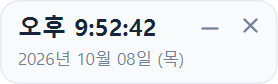
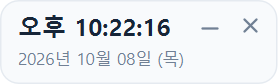
Stabilize settings panel and dropdown rendering for macOS in 1.2.2

Changed region(s): [[0.4317, 0.2143, 0.6331, 0.4286], [0.259, 0.2143, 0.4029, 0.4286]]

diff --git a/settings_panel.py b/settings_panel.py
@@ -1,12 +1,20 @@
 """Stable Qt preferences panel: no widget recreation during changes."""
 from datetime import datetime
 from PySide6.QtCore import Qt, QSignalBlocker, QPointF
-from PySide6.QtGui import QFont, QKeySequence, QShortcut, QPainter, QPen, QColor, QPolygonF, QPalette
+from PySide6.QtGui import QFont, QKeySequence, QShortcut, QPainter, QPen, QColor, QPolygonF, QPalette, QFontMetrics
 from PySide6.QtWidgets import (QWidget, QLabel, QVBoxLayout, QHBoxLayout, QComboBox,
-                               QPushButton, QButtonGroup, QFrame, QListView, QKeySequenceEdit, QScrollArea)
+                               QPushButton, QButtonGroup, QFrame, QListView, QKeySequenceEdit, QScrollArea, QSizePolicy, QProxyStyle, QStyle)
 from clock_core import TIME_PRESETS, DATE_PRESETS, format_clock
 from hotkey_core import parse_shortcut
 from ui_components import RoundedWindow, button
+
+
+class PersistentScrollStyle(QProxyStyle):
+    """Avoid macOS overlay/auto-hide scrollbar transitions in settings."""
+    def styleHint(self, hint, option=None, widget=None, returnData=None):
+        if hint == QStyle.SH_ScrollBar_Transient:
+            return 0
+        return super().styleHint(hint, option, widget, returnData)
 
 
 class ClockComboBox(QComboBox):
@@ -14,12 +22,20 @@ class ClockComboBox(QComboBox):
         super().__init__(parent)
         self.arrow_color = "#718094"
 
-    def showPopup(self):
-        super().showPopup()
+    def prepare_popup(self):
+        # Prepare the native container before its first visible frame.
         container = self.view().window()
-        container.setPalette(self.palette())
+        palette = self.palette()
+        if container.palette() != palette:
+            container.setPalette(palette)
         container.setAutoFillBackground(True)
-        container.setStyleSheet(f"background: {self.palette().color(QPalette.Base).name()};")
+        sheet = f"background: {palette.color(QPalette.Base).name()};"
+        if container.styleSheet() != sheet:
+            container.setStyleSheet(sheet)
+
+    def showPopup(self):
+        self.prepare_popup()
+        super().showPopup()
 
     def paintEvent(self, event):
         super().paintEvent(event)
@@ -56,6 +72,7 @@ class SettingsPanel(RoundedWindow):
         self.setAttribute(Qt.WA_DeleteOnClose)
         self.controls = {}
         self.groups = []
+        self.applied_theme = None
         outer = QVBoxLayout(self)
         outer.setContentsMargins(0, 0, 0, 0)
         self.scroll = QScrollArea(self)
@@ -63,6 +80,10 @@ class SettingsPanel(RoundedWindow):
         self.scroll.setFrameShape(QFrame.NoFrame)
         self.scroll.setWidgetResizable(True)
         self.scroll.setHorizontalScrollBarPolicy(Qt.ScrollBarAlwaysOff)
+        scrollbar = self.scroll.verticalScrollBar()
+        self.scroll_style = PersistentScrollStyle('Fusion')
+        self.scroll_style.setParent(scrollbar)
+        scrollbar.setStyle(self.scroll_style)
         self.body = QWidget()
         self.body.setObjectName('settingsBody')
         self.scroll.setWidget(self.body)
@@ -91,6 +112,10 @@ class SettingsPanel(RoundedWindow):
         self.preview_time.setFont(QFont("Malgun Gothic", 18, QFont.Bold))
         self.preview_date = QLabel()
         self.preview_date.setFont(QFont("Malgun Gothic", 10))
+        # Time digit widths must not invalidate the scroll area's size hints.
+        for label in (self.preview_time, self.preview_date):
+            label.setSizePolicy(QSizePolicy.Ignored, QSizePolicy.Fixed)
+            label.setFixedHeight(QFontMetrics(label.font()).height())
         preview_layout.addWidget(self.preview_time)
         preview_layout.addWidget(self.preview_date)
         layout.addWidget(self.preview)
@@ -139,8 +164,11 @@ class SettingsPanel(RoundedWindow):
         self.refresh()
         bounds = app.root.screen().availableGeometry()
         self.body.adjustSize()
-        self.setFixedSize(max(450, self.body.sizeHint().width() + 16),
-                          min(self.body.sizeHint().height(), bounds.height() - 16))
+        content_height = self.body.sizeHint().height()
+        panel_height = min(content_height, bounds.height() - 16)
+        self.scroll.setVerticalScrollBarPolicy(
+            Qt.ScrollBarAlwaysOn if content_height > panel_height else Qt.ScrollBarAlwaysOff)
+        self.setFixedSize(max(450, self.body.sizeHint().width() + 16), panel_height)
         x = max(bounds.left(), min(app.root.x() - self.width() - 12, bounds.right() - self.width()))
         y = max(bounds.top(), min(app.root.y(), bounds.bottom() - self.height()))
         self.move(x, y)
@@ -212,6 +240,14 @@ class SettingsPanel(RoundedWindow):
 
     def refresh(self):
         colors = self.app.colors
+        theme_changed = self.applied_theme != self.app.preferences.theme
+        if theme_changed:
+            self.apply_theme(colors)
+            self.applied_theme = self.app.preferences.theme
+        self.sync_controls(theme_changed)
+        self.update_preview(datetime.now().astimezone())
+
+    def apply_theme(self, colors):
         self.apply_colors(colors)
         self.setStyleSheet(self.styleSheet() + f"""
             QScrollArea#settingsScroll, QWidget#settingsBody {{ background: transparent; }}
@@ -240,6 +276,9 @@ class SettingsPanel(RoundedWindow):
         for label in self.labels + [self.description, self.preview_date, self.hint, self.chime_hint, self.hotkey_hint, self.hotkey_status]:
             label.setStyleSheet(f"color: {colors['muted']};")
         self.status_label.setStyleSheet(f"color: {colors['accent']};")
+
+    def sync_controls(self, theme_changed):
+        colors = self.app.colors
         for name, controls in self.controls.items():
             value = getattr(self.app.preferences, name)
             if isinstance(controls, list):
@@ -248,18 +287,20 @@ class SettingsPanel(RoundedWindow):
                     control.setChecked(control.property("value") == value)
                     del blocker
             else:
-                palette = controls.palette()
-                for role, color in ((QPalette.Window, colors['panel']), (QPalette.Base, colors['panel']),
-                                    (QPalette.Button, colors['panel']), (QPalette.Text, colors['fg']),
-                                    (QPalette.WindowText, colors['fg']), (QPalette.ButtonText, colors['fg']),
-                                    (QPalette.Highlight, colors['selected']), (QPalette.HighlightedText, colors['fg'])):
-                    palette.setColor(role, QColor(color))
-                controls.setPalette(palette)
-                controls.view().setPalette(palette)
-                controls.view().viewport().setPalette(palette)
-                controls.view().viewport().setAutoFillBackground(True)
-                controls.arrow_color = colors["muted"]
-                controls.update()
+                if theme_changed:
+                    palette = controls.palette()
+                    for role, color in ((QPalette.Window, colors['panel']), (QPalette.Base, colors['panel']),
+                                        (QPalette.Button, colors['panel']), (QPalette.Text, colors['fg']),
+                                        (QPalette.WindowText, colors['fg']), (QPalette.ButtonText, colors['fg']),
+                                        (QPalette.Highlight, colors['selected']), (QPalette.HighlightedText, colors['fg'])):
+                        palette.setColor(role, QColor(color))
+                    controls.setPalette(palette)
+                    controls.view().setPalette(palette)
+                    controls.view().viewport().setPalette(palette)
+                    controls.view().viewport().setAutoFillBackground(True)
+                    controls.arrow_color = colors["muted"]
+                    controls.update()
+                    controls.prepare_popup()
                 blocker = QSignalBlocker(controls)
                 controls.setCurrentIndex(controls.findData(value))
                 del blocker
@@ -267,12 +308,13 @@ class SettingsPanel(RoundedWindow):
         if not self.shortcut_editor.hasFocus():
             self.shortcut_editor.setKeySequence(QKeySequence(self.app.preferences.recovery_shortcut))
         self.update_hotkey_status()
-        self.update_preview(datetime.now().astimezone())
 
     def update_preview(self, now):
         clock = format_clock(now, self.app.preferences)
-        self.preview_time.setText(clock.time)
-        self.preview_date.setText(clock.date)
+        if self.preview_time.text() != clock.time:
+            self.preview_time.setText(clock.time)
+        if self.preview_date.text() != clock.date:
+            self.preview_date.setText(clock.date)
 
     def closeEvent(self, event):
         self.resume_shortcuts()

diff --git a/smoke_settings.py b/smoke_settings.py
@@ -1,0 +1,102 @@
+"""Settings geometry regression, also runnable on macOS offscreen CI."""
+from datetime import datetime, timedelta
+from types import SimpleNamespace
+from unittest.mock import patch
+import json
+from pathlib import Path
+
+from PySide6.QtCore import QObject, QEvent, QRect, Qt
+from PySide6.QtGui import QFont
+from PySide6.QtTest import QTest
+from PySide6.QtWidgets import QApplication, QStyle
+from main import ClockApp
+
+
+class StyleChanges(QObject):
+    def __init__(self):
+        super().__init__()
+        self.changes = 0
+
+    def eventFilter(self, watched, event):
+        if event.type() == QEvent.StyleChange:
+            self.changes += 1
+        return False
+
+
+def geometry(panel, combo):
+    return (panel.geometry().getRect(), panel.body.size().toTuple(),
+            panel.scroll.viewport().size().toTuple(), combo.geometry().getRect(),
+            panel.scroll.verticalScrollBar().isVisible())
+
+
+def run():
+    qt = QApplication([])
+    qt.setStyle('Fusion')
+    qt.setFont(QFont('Malgun Gothic', 9))
+    cases = 0
+    with patch('main.load_settings', return_value={'schema_version': 3, 'recovery_shortcut': ''}), \
+            patch('main.save_settings'), patch('main.ChimeAudio.play', return_value=True):
+        app = ClockApp()
+        try:
+            for available_height in (420, 1600):
+                for theme in ('light', 'dark', 'aurora'):
+                    app.set_preference('theme', theme)
+                    screen = SimpleNamespace(availableGeometry=lambda: QRect(0, 0, 1400, available_height))
+                    with patch.object(app.root, 'screen', return_value=screen):
+                        app.toggle_settings()
+                    panel = app.settings_panel
+                    QTest.qWait(50)
+                    bar = panel.scroll.verticalScrollBar()
+                    assert not bar.style().styleHint(QStyle.SH_ScrollBar_Transient, None, bar)
+                    assert panel.scroll.verticalScrollBarPolicy() == (
+                        Qt.ScrollBarAlwaysOn if available_height == 420 else Qt.ScrollBarAlwaysOff)
+                    combo = panel.controls['date_preset']
+                    panel.scroll.ensureWidgetVisible(combo)
+                    QTest.qWait(30)
+                    initial = geometry(panel, combo)
+                    changes = StyleChanges()
+                    for widget in (panel, combo, bar, panel.scroll.viewport()):
+                        widget.installEventFilter(changes)
+                    for minute in range(60):
+                        panel.update_preview(datetime(2026, 12, 31, 23, 59) + timedelta(minutes=minute))
+                        qt.processEvents()
+                        assert geometry(panel, combo) == initial, 'Clock text moved settings controls/scrollbar'
+                    for key, value in (('hour_cycle', 24), ('show_seconds', False),
+                                       ('time_preset', 'korean'), ('date_preset', 'iso'),
+                                       ('hour_cycle', 12), ('show_seconds', True)):
+                        app.set_preference(key, value)
+                        qt.processEvents()
+                        assert geometry(panel, combo) == initial, 'Preference change moved settings controls'
+                    assert changes.changes == 0, 'Non-theme updates repolished panel/selector/scrollbar'
+                    combo.showPopup()
+                    QTest.qWait(30)
+                    popup = combo.view().window()
+                    opened = popup.geometry().getRect()
+                    popup.installEventFilter(changes)
+                    for second in range(30):
+                        panel.update_preview(datetime(2026, 1, 1, 11, 11, second))
+                        app.apply_policy()
+                        panel.refresh()
+                        qt.processEvents()
+                        assert popup.isVisible() and popup.geometry().getRect() == opened
+                        assert geometry(panel, combo) == initial
+                    assert changes.changes == 0, 'Live dropdown/style changed during preview/policy refresh'
+                    combo.hidePopup()
+                    if available_height == 420:
+                        bar.setValue(bar.maximum())
+                        QTest.qWait(1100)
+                        assert bar.isVisible() and geometry(panel, combo) == initial
+                        assert bar.value() == bar.maximum(), 'Timer jumped the scroll position'
+                    panel.close()
+                    qt.processEvents()
+                    cases += 1
+        finally:
+            app.shutdown()
+    Path('build').mkdir(exist_ok=True)
+    Path('build/packaged-settings.json').write_text(json.dumps({'passed': True, 'theme_screen_cases': cases,
+        'preview_updates_per_case': 90, 'physical_mac_flicker_verified': False}, indent=2), encoding='utf-8')
+    print(f'PASS: {cases} theme/screen cases; stable settings, dropdown and scrollbar through text/settings/timer updates')
+
+
+if __name__ == '__main__':
+    run()

diff --git a/smoke_ui.py b/smoke_ui.py
@@ -8,8 +8,8 @@ import ctypes
 from ctypes import wintypes
 from unittest.mock import patch
 
-from PySide6.QtCore import Qt, QPoint
-from PySide6.QtGui import QFont, QFontMetrics
+from PySide6.QtCore import Qt, QPoint, QPointF
+from PySide6.QtGui import QFont, QFontMetrics, QEnterEvent
 from PySide6.QtTest import QTest
 from PySide6.QtWidgets import QApplication
 
@@ -306,11 +306,17 @@ def run(capture=False):
             began = perf_counter()
             QCursor.setPos(control.mapToGlobal(QPoint(12, 12)))
             QTest.mouseMove(app.help_button if app.help_button.isVisible() else app.hide_button, QPoint(12, 12))
+            # QTest's synthetic move can omit Enter after a native popup closes.
+            # Send that Qt event explicitly; rendering and cursor-exit remain real.
+            qt.sendEvent(control, QEnterEvent(QPointF(12,12),
+                QPointF(control.mapTo(app.root, QPoint(12,12))),
+                QPointF(control.mapToGlobal(QPoint(12,12)))))
             QTest.qWait(20)
             qt.processEvents()
             control = app.help_button if app.help_button.isVisible() else app.hide_button
             hint = control.hint
-            assert hint and hint.isVisible()
+            assert hint and hint.isVisible(), (theme, control.isVisible(), control.underMouse(),
+                QCursor.pos(), control.mapToGlobal(QPoint(12,12)), qt.widgetAt(QCursor.pos()))
             assert (perf_counter()-began)*1000 < 125
             assert hint.geometry().bottom() < control.mapToGlobal(QPoint(0,0)).y()
             assert qt.activeWindow() is app.root

diff --git a/ui_components.py b/ui_components.py
@@ -57,6 +57,8 @@ class RoundedWindow(QWidget):
         super().mouseReleaseEvent(event)
 
     def apply_colors(self, colors):
+        if self.colors == colors and self.styleSheet():
+            return
         self.colors = colors
         self.setStyleSheet(f"""
             QLabel {{ color: {colors['fg']}; background: transparent; border: none; }}

diff --git a/app_metadata.py b/app_metadata.py
@@ -2,7 +2,7 @@
 from pathlib import Path
 
 APP_NAME = "Floating Clock"
-VERSION = "1.2.1"
+VERSION = "1.2.2"
 AUTHOR = "yangtaeho"
 BUNDLE_ID = "com.yangtaeho.floatingclock"
 DESCRIPTION = "Offline desktop clock with an hourly chime"

diff --git a/docs/REQUEST_LEDGER.md b/docs/REQUEST_LEDGER.md
@@ -483,3 +483,13 @@ Windows 구현·검증과 공개/배포 전달 완료. 회사 Windows 독립 실
 - C:/dev/tools 갱신: 교체 직전 해당 EXE 실행 프로세스 없음. 기존 v1.1.0 EXE·바로가기·설정 및 관련 캐시는 C:/dev/tools/backups/FloatingClock-1.1.0-20261008-215353에 백업. 설치 EXE 31,817,918 bytes, SHA-256 aff8f3dee4fd53eac5bcf98068d4ef42d3df6947b0e6ed503da2fb0e8cfa417c, 릴리스 EXE와 일치. 기존 .lnk와 settings.json 해시 보존. 격리 환경에서 설치 경로 --verify-audio 통과 후 사용자 환경으로 실행, 실제 창 확인. 기존 라이트/24시간/위치 선택을 보존하고 오로라를 임의로 켜지 않음.
 - 예전 Python 트레이 캐시: key 9395770847283810984의 Python312/python.exe 경로·UID=0와 tools 항목의 IconSnapshot SHA-256 9ff8b5217de992b4ed57a7e485ca48b69acf601640e928cc26ed1ef51793cf68 일치를 확인. 해당 키와 tools 키를 reg export로 백업 후 그 Python 키 하나만 제거, 기존 IsPromoted=1을 tools 실행 항목에 이전. 제거 완료와 tools IsPromoted=1 재확인. 다른 Python/앱 캐시와 Explorer는 건드리지 않음. Windows 설정 화면 자체의 재렌더링은 사용자 확인 범위.
 - 한계: Mac 실기기 테마·메뉴 막대·단일 실행·포커스·물리 음향, UHD 실제 케이블 분리와 모든 DPI, Apple 개발자 서명/공증은 미검증/미제공. Windows 외부 앱에서 전경 활성화는 위 사전 조건 실패로 이번 세션 재검증 불가. 툴팁은 인위적 지연 0이며 OS 렌더링 0.125ms를 보장하지 않음. UI 검사는 125ms 이내 기준. 소리 청감은 사용자 수용 대상.
+
+## R018 — ARM Mac 실기기 실행 확인과 설정 패널 깜빡임 개선
+
+요청일: 2026-10-08. 상태: **implementing**.
+
+사용자 보고: v1.2.1 ARM Mac이 안내대로 실행되고 잘 동작함을 확인. 설정 창·셀렉트 박스의 흔들림과 오른쪽 스크롤바 깜빡임은 남아 있음. 실행 성공만 실기기 검증으로 추가하며 모든 개별 기능의 수용으로 확대하지 않는다.
+
+설계: v1.2.2 유지보수 배포. 설정 변경 시 테마가 같으면 스타일/팔레트 재적용을 피하고 바뀐 값만 동기화. 드롭다운의 테마는 화면에 보이기 전에 적용하여 표시 직후 재배치·재도장을 제거. 설정 시각 미리보기의 글자 폭 변화가 패널 크기 계산으로 전달되지 않도록 크기 정책 고정. 패널 공간 부족 여부로 스크롤바 공간을 미리 결정하고 Mac 자동 숨김/오버레이 전환을 피한다. 타이머·설정 변경·열린 목록·스크롤·테마 전환 동안 창/목록/스크롤바 위치와 크기·포커스·스타일 재적용 여부를 검사한다.
+
+영향: settings_panel.py, smoke_ui.py 및 플랫폼 공통 설정 패널 회귀 검사, app_metadata.py, README/누적 기록. 수용: Windows 실제 Qt와 Mac CI에서 미리보기 반복 갱신·설정 변경·열린 선택 목록·작은 화면 스크롤 중 기하 상태 유지, 기존 360개 UI 조합·소리·독립 실행 회귀 통과. Windows/ARM·Intel Mac 배포와 체크섬 GitHub 전달 및 tools 갱신. ARM Mac 실제 깜빡임 해소는 새 배포판 사용자 재확인 범위.
